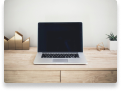
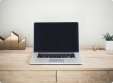
slider are added

diff --git a/src/components/Article/Slider/index.tsx b/src/components/Article/Slider/index.tsx
@@ -7,11 +7,23 @@ import Image3 from "../../../assets/images/article/slider3.png";
 import Image4 from "../../../assets/images/article/slider4.png";
 import Image4Big from "../../../assets/images/article/slider-4-big.png";
 import Image5 from "../../../assets/images/article/slider5.png";
-const NavSlider = () => {
+import TechImage1 from "../../../assets/images/article/tech1.png";
+import TechImage2 from "../../../assets/images/article/tech2.png";
+import TechImage3 from "../../../assets/images/article/tech3.png";
+import TechImage4 from "../../../assets/images/article/tech4.png";
+import TechImage4Big from "../../../assets/images/article/tech-big-1.png";
+import TechImage5 from "../../../assets/images/article/tech5.png";
+import { useTheme } from "next-themes";
+const NavSlider = (props: any) => {
   const slider1 = useRef<any | null>();
   const slider2 = useRef<any | null>();
   const [nav1, setNav1] = useState<any | null>(null);
   const [nav2, setNav2] = useState<any | null>(null);
+  const { theme, setTheme } = useTheme();
+  const [isDarkTheme, setIsDarkTheme] = useState<any>("");
+  useEffect(() => {
+    setIsDarkTheme(theme === "dark" ? "dark" : "light");
+  }, [theme]);
   const settings = {
     slidesToShow: 1,
     slidesToScroll: 1,
@@ -43,50 +55,34 @@ const NavSlider = () => {
 
   return (
     <div className="global-section-width-article">
-     <div className="w-full pt-[20px] max-w-[688px]">
+     <div className="w-full pt-[20px] max-w-[688px] ">
         <Slider className="" asNavFor={nav2} ref={slider1} {...settings}>
-          <div>
-            <Image  src={Image4Big} alt="slider info" />
-          </div>
-          <div>
-            <Image  src={Image4Big} alt="slider info" />
-          </div>
-          <div>
-            <Image  src={Image4Big} alt="slider info" />
-          </div>
-          <div>
-            <Image  src={Image4Big} alt="slider info" />
-          </div>
-          <div>
-            <Image src={Image4Big} alt="slider info" />
-          </div>
-        </Slider>
+          {props.mainImages.map((item :any, index:any) =>
+          <div key={index}>
+          <Image  src={item} alt="slider info" />
         </div>
-        <div className="max-w-[581px]">
+         )}
+         
+        </Slider>
+         <div className={`pl-[40px] pr-[40px] ${isDarkTheme === 'dark'? "article-slider-dark" : "article-slider-light" } `}>
         <Slider
           asNavFor={nav1}
           ref={slider2}
           swipeToSlide={true}
           {...settingss}
         >
-          <div>
-            <Image src={Image1} alt="slider info" />
+          {props.navImages.map((item:any, index:any) =>
+            <div key={index}>
+            <Image src={item}  alt="slider info" />
           </div>
-          <div>
-            <Image src={Image2} alt="slider info" />
-          </div>
-          <div>
-            <Image src={Image3} alt="slider info" />
-          </div>
-          <div>
-            <Image src={Image4} alt="slider info" />
-          </div>
-          <div>
-            <Image src={Image5} alt="slider info" />
-          </div>
+          )}
+        
+         
         </Slider>
       </div>
     </div>
+    </div>
+      
   );
 };
 

diff --git a/src/app/article/three/page.tsx b/src/app/article/three/page.tsx
@@ -7,6 +7,12 @@ import three from "../../../assets/articlebannerimage/three.png"
 import Comments from "@/components/Article/Comments"
 import UserLogoSection from "@/components/Article/UserInfoSection"
 import ReadMoreLikeThis from "@/components/Article/ReadMore"
+import TechImage1 from "../../../assets/images/article/tech1.png";
+import TechImage2 from "../../../assets/images/article/tech2.png";
+import TechImage3 from "../../../assets/images/article/tech3.png";
+import TechImage4 from "../../../assets/images/article/tech4.png";
+import TechImage4Big from "../../../assets/images/article/tech-big-1.png";
+import TechImage5 from "../../../assets/images/article/tech5.png";
 
 const Page = () => {
   interface List {
@@ -19,6 +25,21 @@ const Page = () => {
       lowerImage: three,
     },
   ]);
+  const sliderNavImages = [
+    TechImage1,
+    TechImage2,
+    TechImage3,
+    TechImage4,
+    TechImage5,
+   ];
+
+   const sliderMainImages=[
+    TechImage4Big,
+    TechImage4Big,
+    TechImage4Big,
+    TechImage4Big,
+    TechImage4Big,
+   ]
   return (
     <section>
       <div className="heading_section">
@@ -31,6 +52,8 @@ const Page = () => {
               <AbsBannerArticle
                 bannerImage={e.bannerImage}
                 lowerImage={e.lowerImage}
+                navImages={sliderNavImages}
+                mainImages={sliderMainImages}
               />
             </div>
           )

diff --git a/src/app/article/two/page.tsx b/src/app/article/two/page.tsx
@@ -8,6 +8,12 @@ import ArticlePropConsBox from "@/components/Article/ArticlePropConsBox";
 import ReadMoreLikeThis from "@/components/Article/ReadMore";
 import Comments from "@/components/Article/Comments";
 import UserLogoSection from "@/components/Article/UserInfoSection";
+import Image1 from "../../../assets/images/article/slider1.png";
+import Image2 from "../../../assets/images/article/slider2.png";
+import Image3 from "../../../assets/images/article/slider3.png";
+import Image4 from "../../../assets/images/article/slider4.png";
+import Image4Big from "../../../assets/images/article/slider-4-big.png";
+import Image5 from "../../../assets/images/article/slider5.png";
 
 const Page = () => {
   interface List {
@@ -20,6 +26,22 @@ const Page = () => {
       lowerImage: two,
     },
   ]);
+   const sliderNavImages = [
+    Image1,
+    Image2,
+    Image3,
+    Image4,
+    Image5,
+   ];
+
+   const sliderMainImages=[
+    Image4Big,
+    Image4Big,
+    Image4Big,
+    Image4Big,
+    Image4Big,
+   ]
+
   return (
     <section>
       <div className="heading_section">
@@ -32,6 +54,8 @@ const Page = () => {
               <AbsBannerArticle
                 bannerImage={e.bannerImage}
                 lowerImage={e.lowerImage}
+                navImages={sliderNavImages}
+                mainImages={sliderMainImages}
               />
             </div>
           );

diff --git a/src/components/AbsArticleContent/AbsBannerArticle/AbsBannerArticle.tsx b/src/components/AbsArticleContent/AbsBannerArticle/AbsBannerArticle.tsx
@@ -83,10 +83,9 @@ const AbsBannerArticle = (props: any) => {
                 </div>
                 <div className="third_section mt-[64px]  mw-sm4:mt-[28px] ">
                   <div className="w-[80%] m-auto mw-sm1:w-[100%]">
-                    <Image src={props.lowerImage} alt="image " className="" />
-                    <p className="pt-[8px] mw-sm4:hidden">
-                      Image Credit: Hogwarts.com{" "}
-                    </p>
+                    {/* <Image src={props.lowerImage} alt="image " className="" /> */}
+                     <NavSlider navImages={props.navImages} mainImages={props.mainImages}/>
+                  
                   </div>
                 </div>
                 <div className="fourth_section">

diff --git a/src/app/layout.tsx b/src/app/layout.tsx
@@ -27,7 +27,7 @@ export default function RootLayout({
         />
       </head>
 
-      <body className="scrollbar-thin  scrollbar-thumb-choosebox  scrollbar-track-bodycolor  dark:scrollbar-thumb-darkScollorBarColor  dark:scrollbar-track-brandDark2">
+      <body className="scrollbar-thin  scrollbar-thumb-choosebox  scrollbar-track-bodycolor  scrollbar-thumb-darkScollorBarColor  dark:scrollbar-track-brandDark2">
         <Providers>
           <main className="gossip bg-bodycolor dark:bg-brandDark2">
             <Header />

diff --git a/src/styles/globals.css b/src/styles/globals.css
@@ -349,6 +349,15 @@ body::-webkit-scrollbar-thumb {
 .displayImageProfile button.slick-prev {
   top: 18% !important;
 }
+.article-slider-dark
+.slick-current img{
+ border: solid 2px #e5e5e5 !important;
+}
+
+.article-slider-light
+.slick-current img{
+ border: solid 2px #221e1f !important;
+}
 
 @media screen and (max-width: 1430px) {
   .global-section-width-article,
